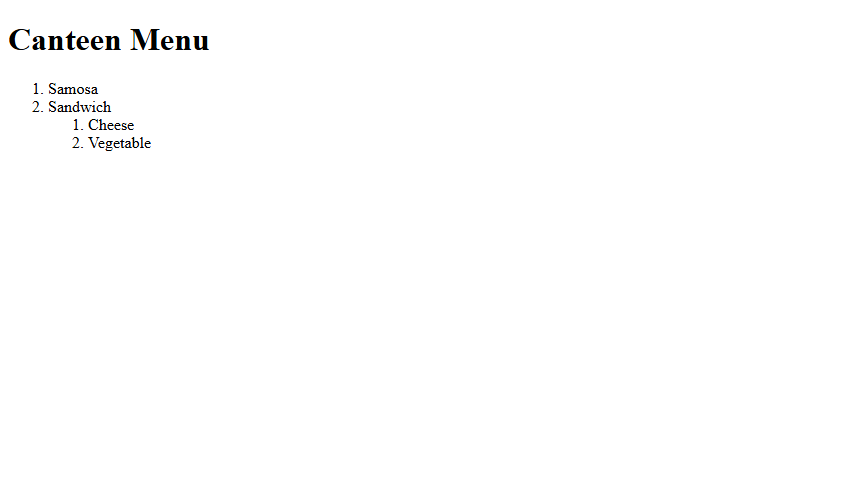
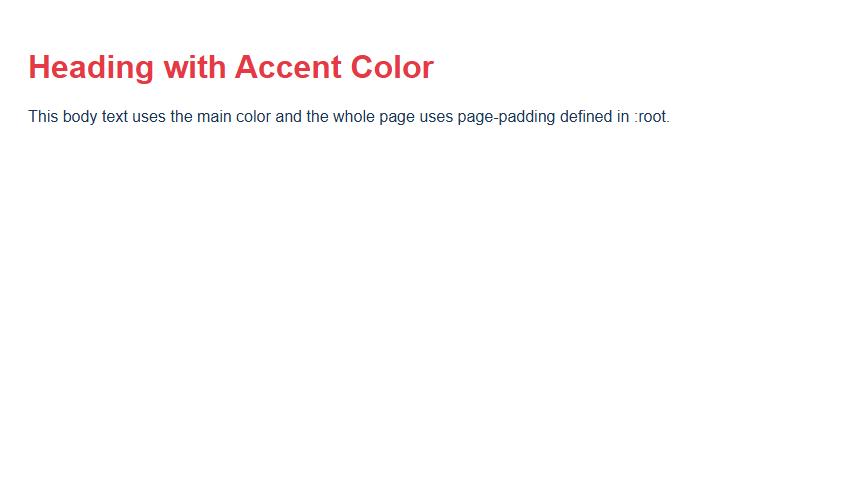
Add files via upload

Changed region(s): [[0.0, 0.06, 0.7953, 0.3]]

diff --git a/style.css b/style.css
@@ -1,90 +1,19 @@
-* {
-    margin: 0;
-    padding: 0;
-    box-sizing: border-box;
-    font-family: Arial, sans-serif;
+/*
+  Student Name: Shivam Gupta
+  Roll Number: 2510303486
+  Subject: HTML and CSS Introduction Lab (BCS352)
+  University: Invertis University, Bareilly
+*/
+:root {
+  --main-color: #1d3557;
+  --accent-color: #e63946;
+  --page-padding: 20px;
 }
-
 body {
-    min-height: 100vh;
-    display: flex;
-    justify-content: center;
-    align-items: center;
-    background: linear-gradient(135deg, rgb(255, 0, 102), rgb(139, 0, 56));
+  color: var(--main-color);
+  padding: var(--page-padding);
+  font-family: Arial, sans-serif;
 }
-
-.calculator {
-    width: 330px;
-    padding: 20px;
-    border-radius: 20px;
-    background: purple;
-    box-shadow: 0 15px 35px rgba(0, 0, 0, 0.5);
-}
-
-#display {
-    width: 100%;
-    height: 80px;
-    margin-bottom: 20px;
-    padding: 15px;
-    border: none;
-    outline: none;
-    border-radius: 12px;
-    background: black;
-    color: white;
-    font-size: 32px;
-    text-align: right;
-}
-
-.buttons {
-    display: grid;
-    grid-template-columns: repeat(4, 1fr);
-    gap: 10px;
-}
-
-button {
-    height: 60px;
-    border: none;
-    border-radius: 12px;
-    background: darkgray;
-    color: white;
-    font-size: 20px;
-    cursor: pointer;
-    transition: 0.2s;
-}
-
-button:hover {
-    background: gray;
-    transform: scale(1.03);
-}
-
-button:active {
-    transform: scale(0.95);
-}
-
-.operator {
-    background: orange;
-}
-
-.operator:hover {
-    background: darkorange;
-}
-
-.clear {
-    background: red;
-}
-
-.clear:hover {
-    background: darkred;
-}
-
-.equal {
-    background: green;
-}
-
-.equal:hover {
-    background: darkgreen;
-}
-
-.zero {
-    grid-column: span 2;
+h1 {
+  color: var(--accent-color);
 }

diff --git a/variables.html b/variables.html
@@ -1,0 +1,32 @@
+<!--
+  Student Name: Shivam Gupta
+  Roll Number: 2510303486
+  Assignment: 11 - Task 02 (CSS Variables)
+-->
+<!DOCTYPE html>
+<html lang="en">
+<head>
+  <meta charset="UTF-8">
+  <title>CSS Variables</title>
+  <style>
+    :root {
+      --main-color: #1d3557;
+      --accent-color: #e63946;
+      --page-padding: 20px;
+    }
+    body {
+      color: var(--main-color);
+      padding: var(--page-padding);
+      font-family: Arial, sans-serif;
+    }
+    h1 {
+      color: var(--accent-color);
+    }
+  </style>
+  <link rel="stylesheet" href="style.css">
+</head>
+<body>
+  <h1>Heading with Accent Color</h1>
+  <p>This body text uses the main color and the whole page uses page-padding defined in :root.</p>
+</body>
+</html>
